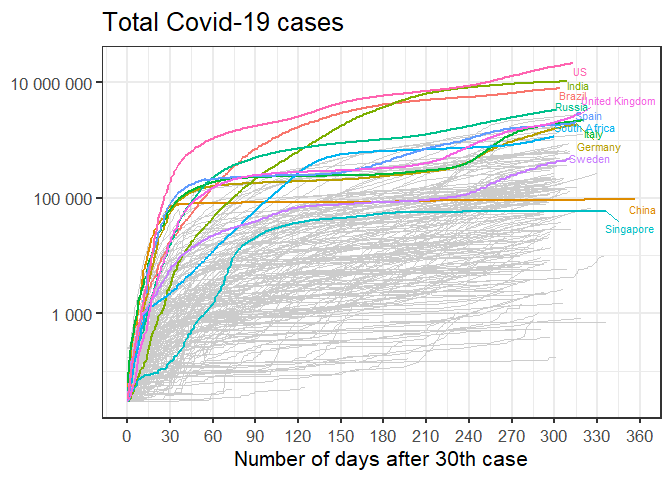
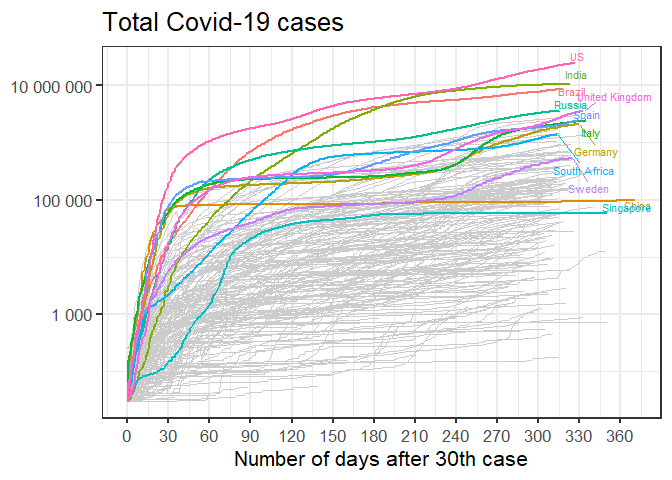
Refresh

diff --git a/README.md b/README.md
@@ -19,7 +19,7 @@ The data source is [a repository maintained by Johns Hopkins
 University](https://github.com/CSSEGISandData/COVID-19). The data is
 updated once per day.
 
-Last updated at 2021-01-09 07:43:36
+Last updated at 2021-01-23 13:41:45
 
 ## Total cases
 
@@ -27,16 +27,16 @@ Last updated at 2021-01-09 07:43:36
     #> # Groups:   country [1]
     #>    country      date         lat  long   cases
     #>    <chr>        <date>     <dbl> <dbl>   <dbl>
-    #>  1 South Africa 2020-12-30 -30.6  22.9 1039161
-    #>  2 South Africa 2020-12-31 -30.6  22.9 1057161
-    #>  3 South Africa 2021-01-01 -30.6  22.9 1073887
-    #>  4 South Africa 2021-01-02 -30.6  22.9 1088889
-    #>  5 South Africa 2021-01-03 -30.6  22.9 1100748
-    #>  6 South Africa 2021-01-04 -30.6  22.9 1113349
-    #>  7 South Africa 2021-01-05 -30.6  22.9 1127759
-    #>  8 South Africa 2021-01-06 -30.6  22.9 1149591
-    #>  9 South Africa 2021-01-07 -30.6  22.9 1170590
-    #> 10 South Africa 2021-01-08 -30.6  22.9 1192570
+    #>  1 South Africa 2021-01-13 -30.6  22.9 1278303
+    #>  2 South Africa 2021-01-14 -30.6  22.9 1296806
+    #>  3 South Africa 2021-01-15 -30.6  22.9 1311686
+    #>  4 South Africa 2021-01-16 -30.6  22.9 1325659
+    #>  5 South Africa 2021-01-17 -30.6  22.9 1337926
+    #>  6 South Africa 2021-01-18 -30.6  22.9 1346936
+    #>  7 South Africa 2021-01-19 -30.6  22.9 1356716
+    #>  8 South Africa 2021-01-20 -30.6  22.9 1369426
+    #>  9 South Africa 2021-01-21 -30.6  22.9 1380807
+    #> 10 South Africa 2021-01-22 -30.6  22.9 1392568
 
 ### Linear scale
 
@@ -70,16 +70,16 @@ indicates exponential growth.
     #> # Groups:   country [1]
     #>    country      date       deaths
     #>    <chr>        <date>      <dbl>
-    #>  1 South Africa 2020-12-30  28033
-    #>  2 South Africa 2020-12-31  28469
-    #>  3 South Africa 2021-01-01  28887
-    #>  4 South Africa 2021-01-02  29175
-    #>  5 South Africa 2021-01-03  29577
-    #>  6 South Africa 2021-01-04  30011
-    #>  7 South Africa 2021-01-05  30524
-    #>  8 South Africa 2021-01-06  31368
-    #>  9 South Africa 2021-01-07  31809
-    #> 10 South Africa 2021-01-08  32425
+    #>  1 South Africa 2021-01-13  35140
+    #>  2 South Africa 2021-01-14  35852
+    #>  3 South Africa 2021-01-15  36467
+    #>  4 South Africa 2021-01-16  36851
+    #>  5 South Africa 2021-01-17  37105
+    #>  6 South Africa 2021-01-18  37449
+    #>  7 South Africa 2021-01-19  38288
+    #>  8 South Africa 2021-01-20  38854
+    #>  9 South Africa 2021-01-21  39501
+    #> 10 South Africa 2021-01-22  40076
 
 ### Linear scale
 
